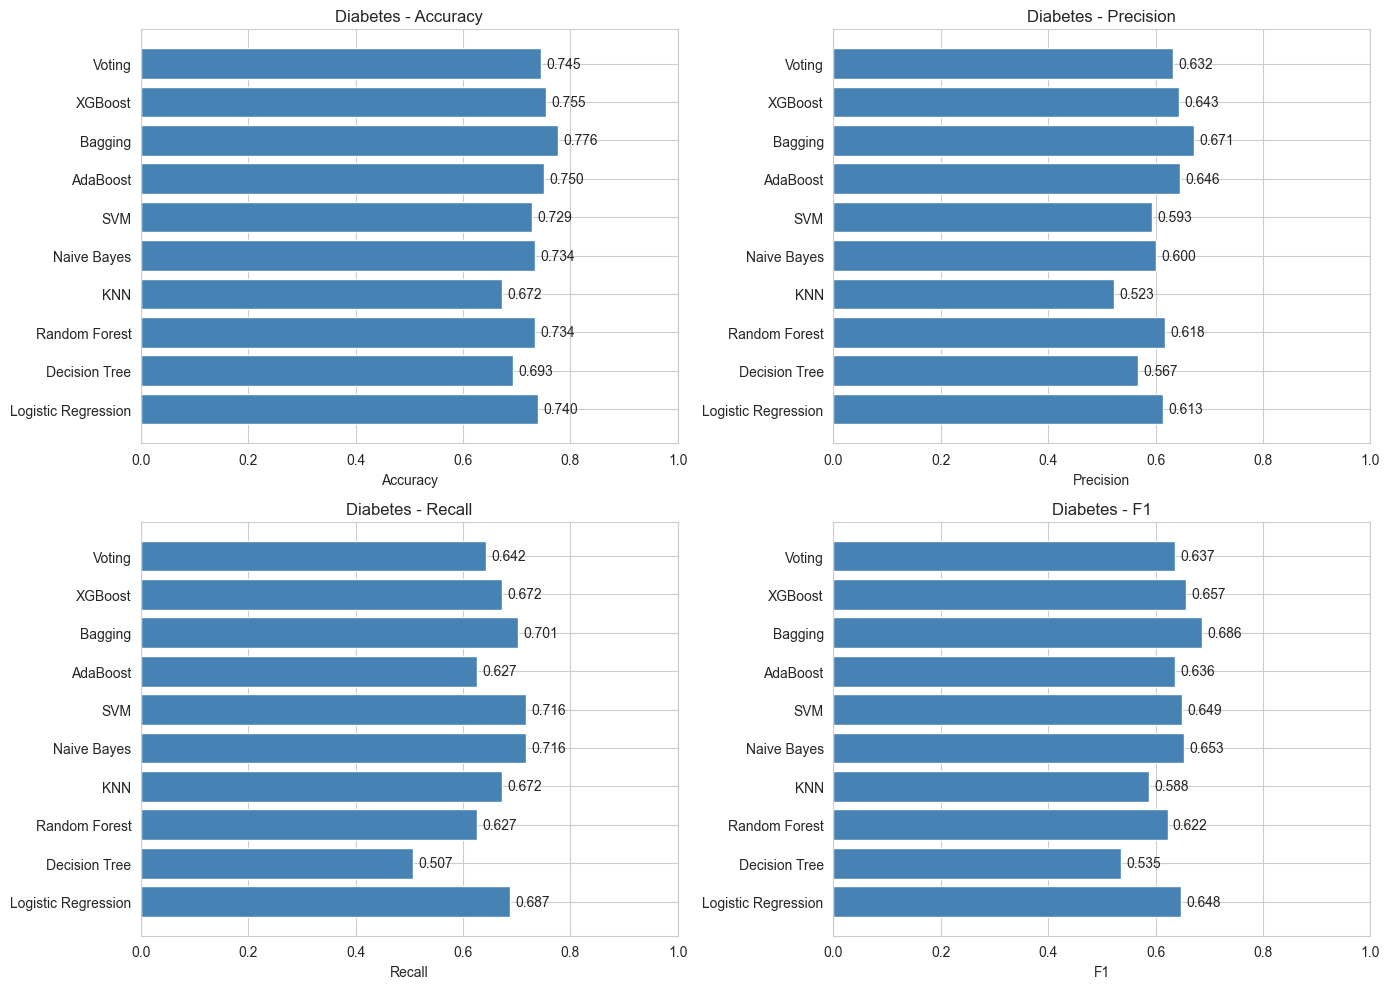
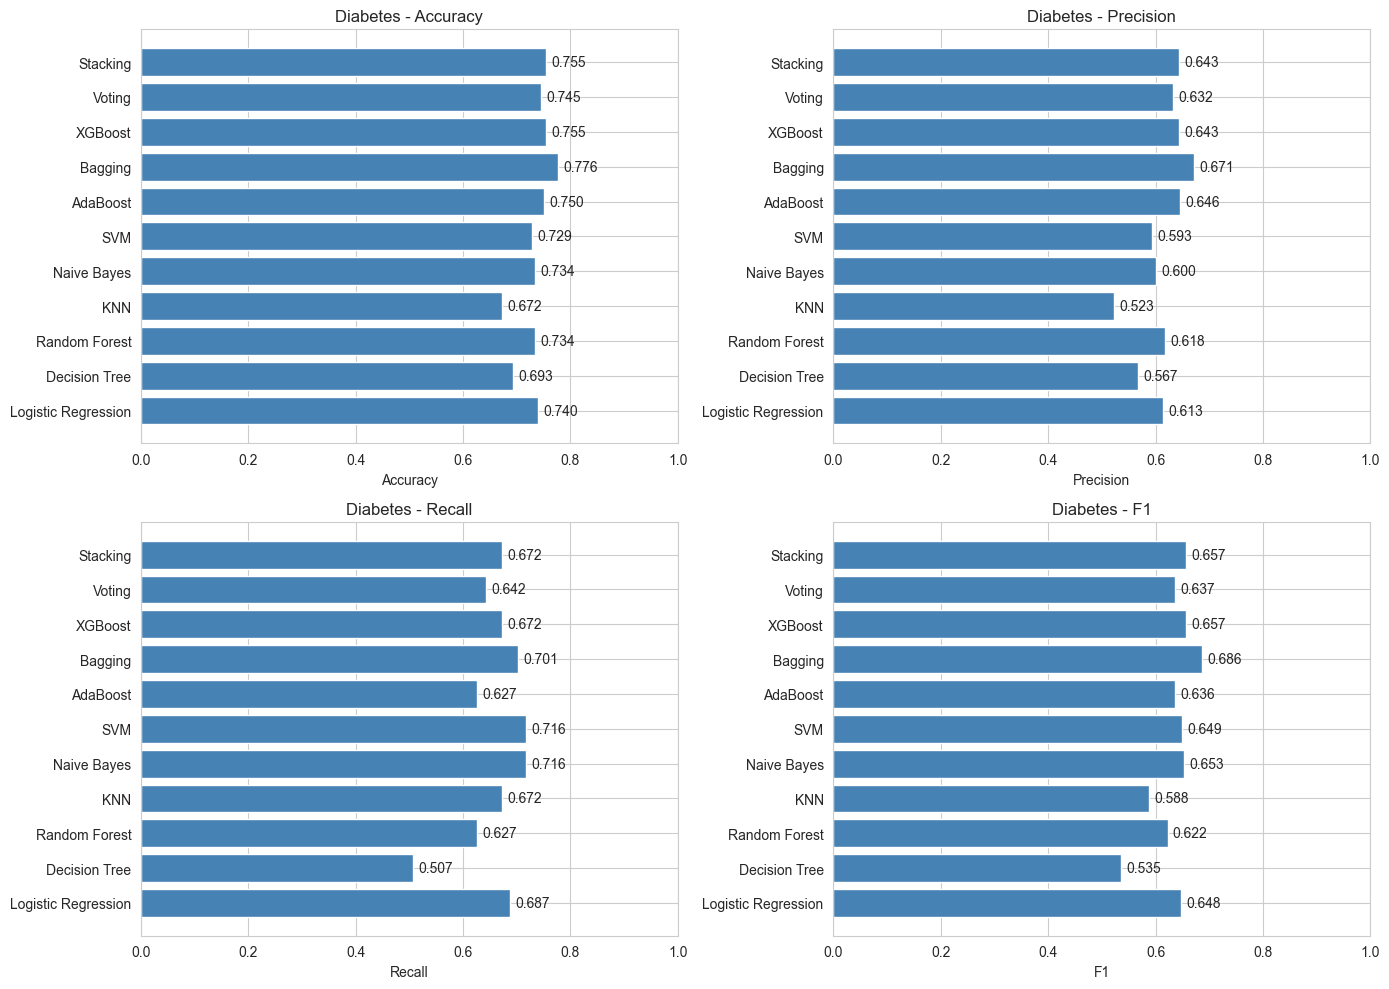
added stacking model and updated about page

diff --git a/src/train_models.py b/src/train_models.py
@@ -1,6 +1,6 @@
 from sklearn.linear_model import LogisticRegression
 from sklearn.tree import DecisionTreeClassifier
-from sklearn.ensemble import RandomForestClassifier, AdaBoostClassifier, BaggingClassifier, VotingClassifier
+from sklearn.ensemble import RandomForestClassifier, AdaBoostClassifier, BaggingClassifier, VotingClassifier, StackingClassifier
 from sklearn.neighbors import KNeighborsClassifier
 from sklearn.naive_bayes import GaussianNB
 from sklearn.svm import SVC
@@ -26,7 +26,17 @@ def get_classifiers():
                 ('lr', LogisticRegression(max_iter=1000, random_state=42))
             ],
             voting='soft'
-        )
+        ),
+        'Stacking': StackingClassifier(
+                    estimators=[
+        ('rf', RandomForestClassifier(n_estimators=50, random_state=42)),
+        ('xgb', XGBClassifier(n_estimators=50, random_state=42, eval_metric='logloss')),
+        ('knn', KNeighborsClassifier(n_neighbors=5)),
+        ('nb', GaussianNB())
+    ],
+    final_estimator=LogisticRegression(max_iter=1000, random_state=42),
+    cv=5
+)
     }
 
 def train_all_models(X_train, X_test, y_train, y_test):

diff --git a/app.py b/app.py
@@ -113,7 +113,7 @@ if page == "🏠 Home":
     metadata = load_metadata()
     
     with col1:
-        st.metric("Total Models Trained", "30", "10 per disease")
+        st.metric("Total Models Trained", "33", "11 per disease")
     
     with col2:
         if 'diabetes' in metadata:
@@ -608,6 +608,7 @@ elif page == "ℹ About":
     8. **Bagging** - Bootstrap aggregating
     9. **XGBoost** - Extreme gradient boosting
     10. **Voting Classifier** - Ensemble of multiple models
+    11. **Stacking Classifier** - Meta-learning ensemble model
     
     ### 🔬 Methodology
     
